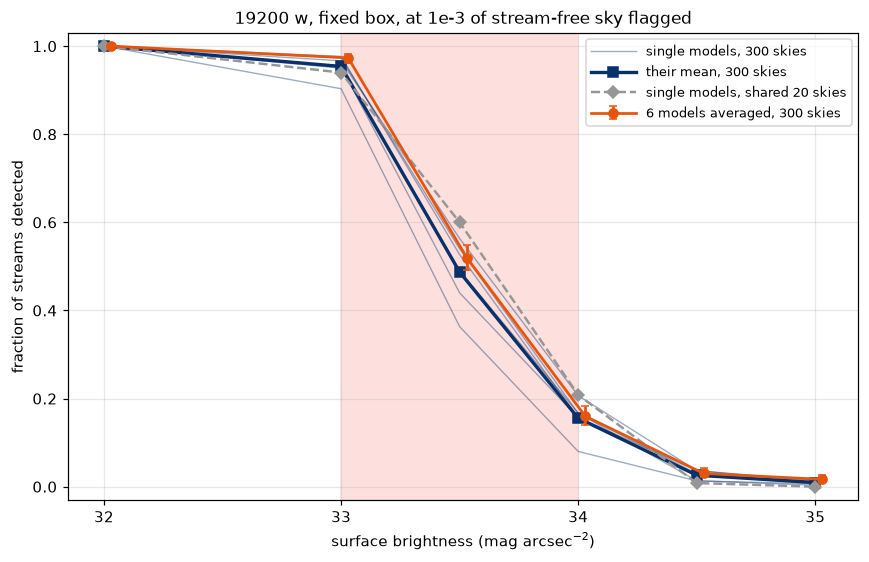
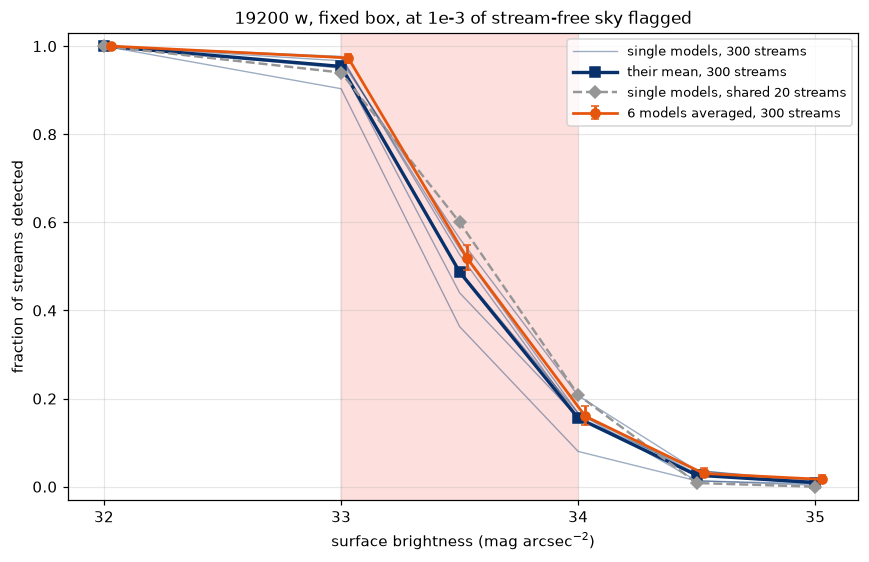
Say "streams" for evaluation realizations, not "skies"
Each evaluation realization is one injected stream, so the docs, figures,
notebook and scripts now count them as streams ("300 streams per point").
"Stream-free sky" stays for the false-alarm control, and "background" for
the catalog a model was or was not trained on.

Changed region(s): [[0.6525, 0.0605, 0.9632, 0.242]]

diff --git a/scripts/experiments/hyperparameters/summary.py b/scripts/experiments/hyperparameters/summary.py
@@ -17,8 +17,8 @@ One figure per statement the page makes:
                          surface brightness -- evaluation precision, not a
                          difference between models
   8_decoy.png            the fixed decoy box against the shifted one
-  9_long_models.png      the selected model on 300 skies per point, alone and
-                         averaged, against the 20 skies every run.py model shares
+  9_long_models.png      the selected model on 300 streams per point, alone and
+                         averaged, against the 20 streams every run.py model shares
 
 Two different uncertainties appear here, drawn differently:
 
@@ -399,7 +399,7 @@ def figure_sampling(results):
 
     The scorings are nested -- the realization seed is [seed, surface-brightness
     index, realization], so the first 20 of the 100 and the first 100 of the 500
-    are the same skies -- which makes this a pure sample-size comparison of the
+    are the same streams -- which makes this a pure sample-size comparison of the
     same trained models.
     """
     paths = {
@@ -643,7 +643,7 @@ def figure_decoy(results):
 
 
 def figure_long_models(results):
-    """9: the deployed model measured on 300 skies, against the shared 20."""
+    """9: the deployed model measured on 300 streams, against the shared 20."""
     name = "w19200_sb32-34.5_d2_b12_lr0.002_bs8_boxdecoy"
     path = DATA / f"ensemble_results_{name}_300streams.pkl"
     if not path.exists():
@@ -662,7 +662,7 @@ def figure_long_models(results):
             color="#08306b",
             lw=0.9,
             alpha=0.4,
-            label="single models, 300 skies" if j == 0 else None,
+            label="single models, 300 streams" if j == 0 else None,
         )
     mean = singles.groupby("richness")["detection_fraction"].mean()
     ax.plot(
@@ -671,7 +671,7 @@ def figure_long_models(results):
         color="#08306b",
         marker="s",
         lw=2.2,
-        label="their mean, 300 skies",
+        label="their mean, 300 streams",
     )
     six = matched[matched.members == ",".join(str(s) for s in range(42, 48))]
     six = six.sort_values("richness")
@@ -684,7 +684,7 @@ def figure_long_models(results):
         marker="o",
         capsize=2.5,
         lw=1.8,
-        label="6 models averaged, 300 skies",
+        label="6 models averaged, 300 streams",
     )
     shared = detection_at_false_alarm_rate(
         results[results.configuration == name],
@@ -700,7 +700,7 @@ def figure_long_models(results):
         ls="--",
         marker="D",
         lw=1.6,
-        label="single models, shared 20 skies",
+        label="single models, shared 20 streams",
     )
     decorate(ax)
     legend(ax)

diff --git a/scripts/experiments/hyperparameters/ensemble.py b/scripts/experiments/hyperparameters/ensemble.py
@@ -6,7 +6,7 @@ seed. A survey search deploys one model, so this scores an *ensemble*: the
 per-pixel probabilities of several trained models, averaged, thresholded once.
 
 Every model of a configuration is loaded from data/experiments/hyperparameters/
-models/ (no retraining) and scored on the same skies as every other result
+models/ (no retraining) and scored on the same streams as every other result
 (same EVAL_SEED, surface brightnesses and realizations as run.py).
 
 Each model was trained with its own input normalization, fitted on its own
@@ -47,9 +47,9 @@ MEMBER_SETS = {
     # 4 is the equal-cost comparison against one training on 4 x 4800 windows.
     "nested": [tuple(SEEDS[:n]) for n in (1, 2, 3, 4, 6)],
     "halves": [tuple(SEEDS[:3]), tuple(SEEDS[3:]), tuple(SEEDS)],
-    # Each training on its own, on as many skies as the averages: a model meant
+    # Each training on its own, on as many streams as the averages: a model meant
     # for deployment is a single prediction, so its absolute rate needs a few
-    # hundred streams per point, not the 20 shared skies of run.py.
+    # hundred streams per point, not the 20 shared streams of run.py.
     "singles": [(seed,) for seed in SEEDS],
 }
 EVAL_SB = [32.0, 33.0, 33.5, 34.0, 34.5, 35.0]

diff --git a/scripts/experiments/hyperparameters/run.py b/scripts/experiments/hyperparameters/run.py
@@ -8,7 +8,7 @@ batch 8, background fraction 0.05) and magnitude cut, overriding only what a
 configuration sets: training windows per epoch, training surface
 brightnesses, network depth and width, learning rate, batch size.
 
-Each model is scored with `evaluate_footprint_realizations` on the same skies
+Each model is scored with `evaluate_footprint_realizations` on the same streams
 for every model: surface brightness EVAL_SB, N_REALIZATIONS each, on an
 independently seeded background, with the no-stream control, per-threshold
 counts and track-band statistics, so `stream_detection` (per-stream SNR along

diff --git a/src/streamgoggles/evaluation/footprint.py b/src/streamgoggles/evaluation/footprint.py
@@ -761,7 +761,7 @@ def plot_detection_rates(
     _errorbar(ax_found, "tpr", marker="o", label="true stream pixels found")
 
     # Where only some realizations kept a true pixel, the rates average over
-    # those alone: say how many, so a "0.0 found" over 11 of 30 skies is not
+    # those alone: say how many, so a "0.0 found" over 11 of 30 realizations is not
     # read as a verdict on all 30.
     if "tpr_n" in data and "n_true_pixels_n" in data:
         with_pixels = data["tpr_n"].to_numpy()

diff --git a/docs/source/experiments/hyperparameters.md b/docs/source/experiments/hyperparameters.md
@@ -118,14 +118,14 @@ numbers that change the error bar on its measured performance.
 
 - **Error bars are sampling uncertainty.** Each model is scored on 20 injected
   streams per surface brightness — and every model is scored on **the same 20
-  skies per point**, so that two configurations are always compared on
-  identical skies. That makes comparisons paired and sharp, but it has a cost
+  streams per point**, so that two configurations are always compared on
+  identical streams. That makes comparisons paired and sharp, but it has a cost
   for absolute rates: a configuration curve pools 6 trainings, yet those are 6
   models × the same 20 streams, not 120 independent streams. The uncertainty
-  from *which* 20 skies were drawn (about ±11 points at 50%) is shared by every
+  from *which* 20 streams were drawn (about ±11 points at 50%) is shared by every
   seed and does not average down, so the pooled bars are too narrow for an
   absolute rate. Use the configuration curves to compare; section 9 measures
-  the selected model's absolute rates on 300 skies per point. An ensemble or a
+  the selected model's absolute rates on 300 streams per point. An ensemble or a
   deployed model — one prediction — is scored on a few hundred streams per
   point for that reason; figure 7 shows what that changes. "k of n streams detected" is binomial — n is fixed and k ≤ n —
   so the bars are a **Wilson 68% interval**: the set of detection rates p for
@@ -358,8 +358,8 @@ the two.
 one 19200-window training use the same number of simulated windows. At
 threshold 0.5 they look alike (54% against 62% at SB 33.5, right panel). At a
 matched false-alarm rate of 1e-3 they are not, and the comparison has to be
-made on identical skies, since the long trainings were scored on the shared 20
-and the averages on 500 (see "Error bars" above). On the same 20 skies per
+made on identical streams, since the long trainings were scored on the shared 20
+and the averages on 500 (see "Error bars" above). On the same 20 streams per
 point, the long training detects 60% of SB 33.5 streams on average against 40%
 for the four-model average, and the six-model average reaches 55%. One long
 training is at least as good as six averaged short ones, for two thirds of the
@@ -444,7 +444,7 @@ their precision could carry.
 scored on 20, 100 and 500 evaluation streams per surface brightness, with
 Wilson 68% bars. The scorings are nested: the realization seed is (base seed,
 surface-brightness index, realization index), so the first 20 of the 100 and
-the first 100 of the 500 are the same skies, and this is a pure sample-size
+the first 100 of the 500 are the same streams, and this is a pure sample-size
 comparison. Right: the comparison that motivated the reruns, at SB 33.5 and a
 matched background density of 1e-3, annotated with the raw counts.*
 
@@ -505,9 +505,9 @@ never reaches the budget), with the Wilson 68% interval on that pooled count.*
 | 4800 w, fixed box | 87% | 52% | 13% | ~3 min |
 | 4800 w, shifted box | 88% | 44% | 18% | ~3 min |
 
-These are the shared 20 skies per point, which is what makes the two decoys
+These are the shared 20 streams per point, which is what makes the two decoys
 directly comparable; section 9 gives the selected model's absolute rates on 300
-skies. At SB 33.5 the 19200-window models detect 60 streams out of 100 with either
+streams per point. At SB 33.5 the 19200-window models detect 60 streams out of 100 with either
 decoy; at 4800 windows, 62 of 120 against 53 (Fisher p = 0.30), and at SB 34, 16
 against 22 (p = 0.38). The per-seed spread is also unchanged: 45% to 65% at
 SB 33.5 for the fixed box at 19200 windows, 55% to 65% for the shifted one.
@@ -515,7 +515,7 @@ SB 33.5 for the fixed box at 19200 windows, 55% to 65% for the shifted one.
 This also settles the discrepancy that prompted the retraining. The first
 fixed-box model, trained and scored in `notebooks/train_model.ipynb`, detected
 40% of SB 33.5 streams at a matched 1e-3 — one model, scored on 30 streams per
-point, on different evaluation skies and with a threshold chosen per surface
+point, on different evaluation streams and with a threshold chosen per surface
 brightness. With six trainings on this page's evaluation, the fixed box gives
 60%. The notebook's number was the sampling of one model on a small evaluation,
 not the decoy.
@@ -525,12 +525,12 @@ cautious (it flags 8e-4 of stream-free sky, against 1.5e-3 with the shifted
 box), so at 0.5 it would look worse than it is. As everywhere on this page, the
 matched false-alarm rate is the fair reading.
 
-### 9. The selected model, measured on 300 skies
+### 9. The selected model, measured on 300 streams
 
 Two questions were left about the 19200-window model once section 8 had chosen
 its inputs: does averaging several long trainings help, the one combination
 not yet tried; and what are its absolute detection rates, given that the
-configuration curves above share their 20 skies per point. Both use the six
+configuration curves above share their 20 streams per point. Both use the six
 fixed-box trainings of section 8, with no retraining: each model on its own,
 two disjoint triples averaged, and all six averaged, each scored on 300 streams
 per surface brightness.
@@ -541,40 +541,40 @@ And the selected model's absolute rates are lower than the shared-sky curves
 suggested: 49% at SB 33.5, not 60%.
 
 ```{image} figures/hyperparameters/9_long_models.png
-:alt: Fraction of streams detected against surface brightness at a matched false-alarm rate of 1e-3, for the six single 19200-window models on 300 skies, their mean, their average as one prediction, and the same single models on the shared 20 skies
+:alt: Fraction of streams detected against surface brightness at a matched false-alarm rate of 1e-3, for the six single 19200-window models on 300 streams, their mean, their average as one prediction, and the same single models on the shared 20 streams
 :width: 100%
 ```
 
 *Each model thresholded to flag 1e-3 of stream-free sky. Thin lines: the six
 trainings on their own, 300 streams per surface brightness; thick blue: their
 mean; orange: the six averaged into one prediction, same 300 streams, with its
-Wilson 68% bars; grey dashed: the same six trainings on the 20 skies per point
+Wilson 68% bars; grey dashed: the same six trainings on the 20 streams per point
 every configuration on this page shares.*
 
 At a matched 1e-3:
 
 | | SB 33 | SB 33.5 | SB 34 |
 |---|---|---|---|
-| one model, 300 skies (mean of 6) | 95% | 49% | 16% |
+| one model, 300 streams (mean of 6) | 95% | 49% | 16% |
 | one model, per seed | 90-98% | 36-56% | 8-21% |
 | two disjoint triples averaged | 97-98% | 51-57% | 17% |
 | all six averaged | 97% | 52% | 16% |
-| one model, the shared 20 skies | 94% | 60% | 21% |
+| one model, the shared 20 streams | 94% | 60% | 21% |
 
-**Averaging.** On the same 20 skies, averaging all six gives 65% at SB 33.5
-against 60% for one model; on 300 skies, 52% against 49%. Neither difference is
+**Averaging.** On the same 20 streams, averaging all six gives 65% at SB 33.5
+against 60% for one model; on 300 streams, 52% against 49%. Neither difference is
 significant, and the two disjoint triples agree with each other, because long
 trainings scatter much less than short ones. It is not worth the extra scoring
 time.
 
 **Absolute rates.** The same six models find 60% of SB 33.5 streams on the
-shared 20 skies and 49% on 300. Those 20 skies happen to be easier than average
+shared 20 streams and 49% on 300. Those 20 streams happen to be easier than average
 for this model — the six-model average shows the same drop, 65% to 52% — which
 is exactly the shared sky-sampling uncertainty described in "How to read the
 figures". It does not undo any comparison on this page, since every
-configuration saw the same 20 skies, but the absolute rates of the selected
-model are the 300-sky ones. The seed spread on 300 skies is also wider than the
-shared skies showed: 36% to 56% at SB 33.5, with one weaker training (seed 46).
+configuration saw the same 20 streams, but the absolute rates of the selected
+model are the 300-stream ones. The seed spread on 300 streams is also wider than the
+shared streams showed: 36% to 56% at SB 33.5, with one weaker training (seed 46).
 
 ## Conclusion: the configuration to use from here
 
@@ -610,9 +610,9 @@ Written as a decision list, strongest first:
    or switch to the long model when a task turns out to need its sensitivity.
 2. **The final model is one training on 19200 windows.** At a matched
    false-alarm rate this is the best single model on the page, and compared on
-   identical skies it beats four averaged 4800-window trainings of the same
+   identical streams it beats four averaged 4800-window trainings of the same
    total cost (60% against 40% at SB 33.5) and matches six of them (55%), with
-   one forward pass instead of six. Measured on 300 skies it detects 95%, 49%
+   one forward pass instead of six. Measured on 300 streams it detects 95%, 49%
    and 16% of streams at SB 33, 33.5 and 34 (section 9). It costs about 10
    minutes on this laptop.
 3. **Do not average — neither short nor long trainings.** Averaging six
@@ -646,8 +646,8 @@ per surface brightness (section 9), on a background the models never saw:
 
 At threshold 0.5 it flags about 9e-4 of stream-free sky. One training varies:
 36% to 56% at SB 33.5 between seeds. The quick 4800-window model has only been
-measured on the shared 20 skies (87%, 52% and 13% there, against 94%, 60% and
-21% for the long model on the same skies), so read it relative to the long
+measured on the shared 20 streams (87%, 52% and 13% there, against 94%, 60% and
+21% for the long model on the same streams), so read it relative to the long
 one. Against the stated goal — most streams at SB 33, a gradual decline
 through SB 34 rather than a cliff — the final model reaches the first and about
 half of the second: SB 33 is essentially solved, SB 33.5 is about a coin flip,

diff --git a/docs/source/experiments/index.md b/docs/source/experiments/index.md
@@ -29,7 +29,7 @@ never saw, flagging about 9e-4 of stream-free sky; at a matched false-alarm
 rate of 1e-3, 95%, 49% and 16% (six trainings, 300 streams per surface
 brightness each; one training ranges from 36% to 56% at SB 33.5). The quick
 (4800-window) model, at a third of the training time, has been compared with it
-only on shared skies, where it finds about 8 points fewer SB 33.5 streams; use
+only on shared streams, where it finds about 8 points fewer SB 33.5 streams; use
 it to explore, assuming it ranks configurations as the long one would (tested
 only across 1200 and 4800 windows so far), and re-measure final numbers with
 the long one.
@@ -52,13 +52,13 @@ page states what its error bars are (the range between seeds on
 {doc}`loss_selection`, the sampling uncertainty on {doc}`hyperparameters`,
 which shows the seed spread in a figure of its own).
 
-**The same evaluation skies for every model.** Models are scored with
+**The same evaluation streams for every model.** Models are scored with
 {py:func}`~streamgoggles.evaluation.footprint.evaluate_footprint_realizations`
 on full-sky injections with a fixed evaluation seed: for each surface
 brightness, the same stream realizations (population, placement, orientation,
 survey noise). Each sky is tiled, predicted, stitched back to HEALPix and
 scored per pixel. Differences between models therefore come from the models,
-not from the skies they were shown.
+not from the streams they were shown.
 
 **Realizations are counted per grid point, and they are an evaluation
 quantity.** `n_realizations` is the number of independent injections used to
@@ -167,7 +167,7 @@ it moves the results.
 | Experiment | Question | Status |
 |---|---|---|
 | {doc}`loss_selection` | Which training loss, batch size and background fraction? | done: batch Dice, batch 8, background fraction 0.05 |
-| Threshold tuning | Which probability threshold for the final maps, and does it hold on skies not used to choose it? | planned |
+| Threshold tuning | Which probability threshold for the final maps, and does it hold on streams and backgrounds not used to choose it? | planned |
 | {doc}`hyperparameters` | Which training length, training surface brightness range, network depth and width, learning rate and batch size detect most streams at SB 33 and some at SB 34, with a clean background? | done for training range, length, network size, averaging and the decoy channel: one model trained on SB 32-34.5 with 19200 windows (4800 while exploring); learning rate and batch size not run yet |
 | Wider stream parameter space | Detection as a function of surface brightness and distance modulus (2-D), then width, length, age and metallicity. | planned |
 | Generic matched filter | One filter swept over trial distance modulus, with the filter's parameters (age, metallicity, trial distance) given to the network as inputs. | planned |

diff --git a/docs/source/experiments/loss_selection.md b/docs/source/experiments/loss_selection.md
@@ -189,7 +189,7 @@ background (mean over 4 seeds):
 **The threshold is still open.** At 0.5, this model finds only 14% of a
 SB 33 stream. Lowering the threshold to 0.1 raises that to 26%, with the
 contrast at SB 32 going from 405 to 149. Where to set it depends on what the
-maps are used for; choosing it, and checking it on skies not used for the
+maps are used for; choosing it, and checking it on streams and backgrounds not used for the
 choice, is the next experiment (see {doc}`index`).
 
 ## Conclusion: what this experiment fixes

diff --git a/docs/source/narrative/training_and_evaluation.md b/docs/source/narrative/training_and_evaluation.md
@@ -269,7 +269,7 @@ SB 31-34; 30 single-stream realizations per point; nside 512; threshold 0.5):
 
 Half of the true stream pixels are found down to **SB ≈ 32.4**. With the
 stream removed, not one background pixel is flagged in any of the 210
-realizations, so the background flagged on the stream skies is provoked by
+realizations, so the background flagged on the maps with a stream is provoked by
 the stream itself (pixels beside its track). At SB 34 the label still exists
 (56 pixels on average) but the model does not respond.
 
